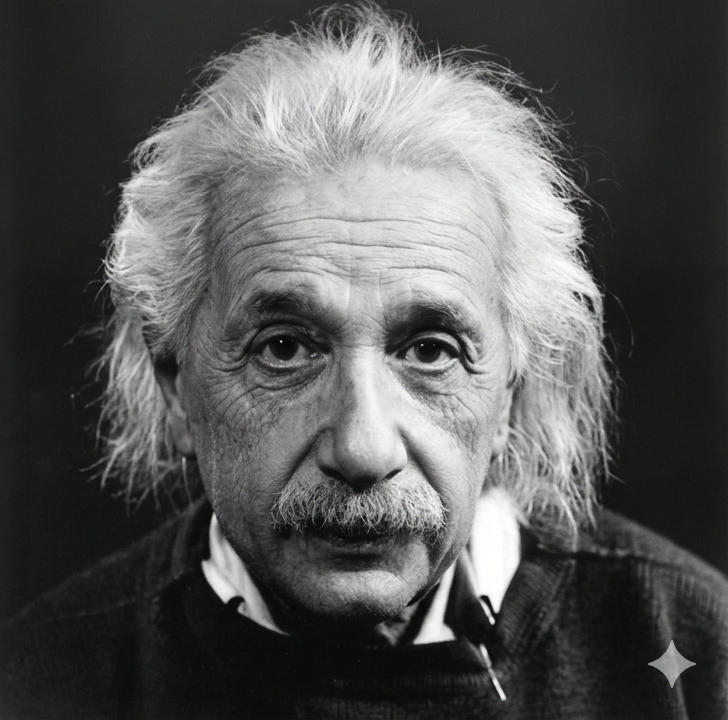
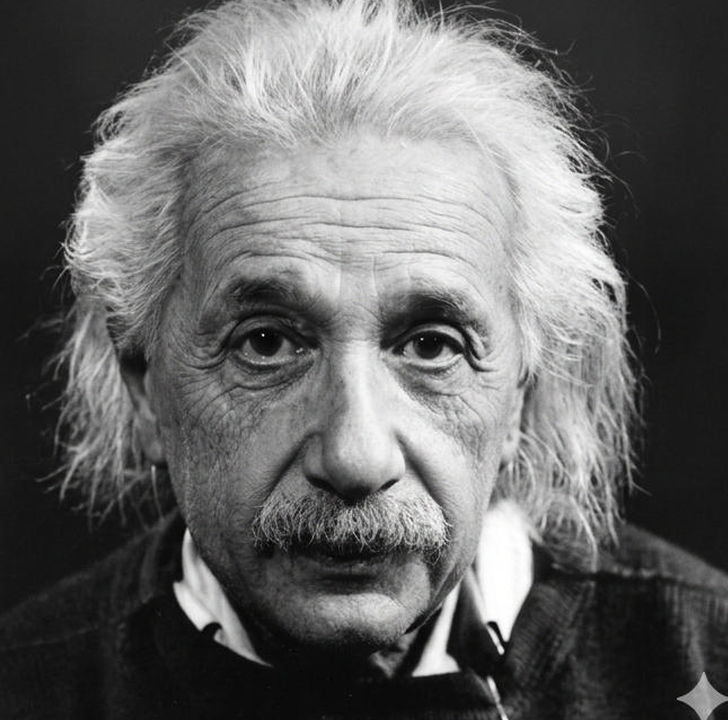
push images

diff --git a/demo/hybrid_image_creator.html b/demo/hybrid_image_creator.html
@@ -222,6 +222,7 @@
       <div class="scope">
         <div class="scope__label">Hybrid (low-pass A + high-pass B)</div>
         <div class="canvas-wrap"><canvas id="hybridCanvas"></canvas></div>
+        <button class="btn btn--accent" id="downloadHybridBtn" type="button" style="margin-top:10px;">Download hybrid image</button>
       </div>
       <div>
         <div class="scope__label">Viewed from a distance (simulated)</div>
@@ -352,6 +353,7 @@
   const origACanvas = $('origACanvas'), origBCanvas = $('origBCanvas');
   const lowACanvas = $('lowACanvas'), highBCanvas = $('highBCanvas');
   const hybridCanvas = $('hybridCanvas'), hybridFarCanvas = $('hybridFarCanvas');
+  const downloadHybridBtn = $('downloadHybridBtn');
 
   function setStatus(el, msg, isError) {
     el.textContent = msg || '';
@@ -562,6 +564,13 @@
     runPipeline();
   });
   matchContrastToggle.addEventListener('change', (e) => { state.matchContrast = e.target.checked; runPipeline(); });
+
+  downloadHybridBtn.addEventListener('click', () => {
+    const link = document.createElement('a');
+    link.download = 'hybrid-image.png';
+    link.href = hybridCanvas.toDataURL('image/png');
+    link.click();
+  });
 
   window.addEventListener('resize', () => runPipeline());
   window.matchMedia('(prefers-color-scheme: dark)').addEventListener('change', () => runPipeline());
